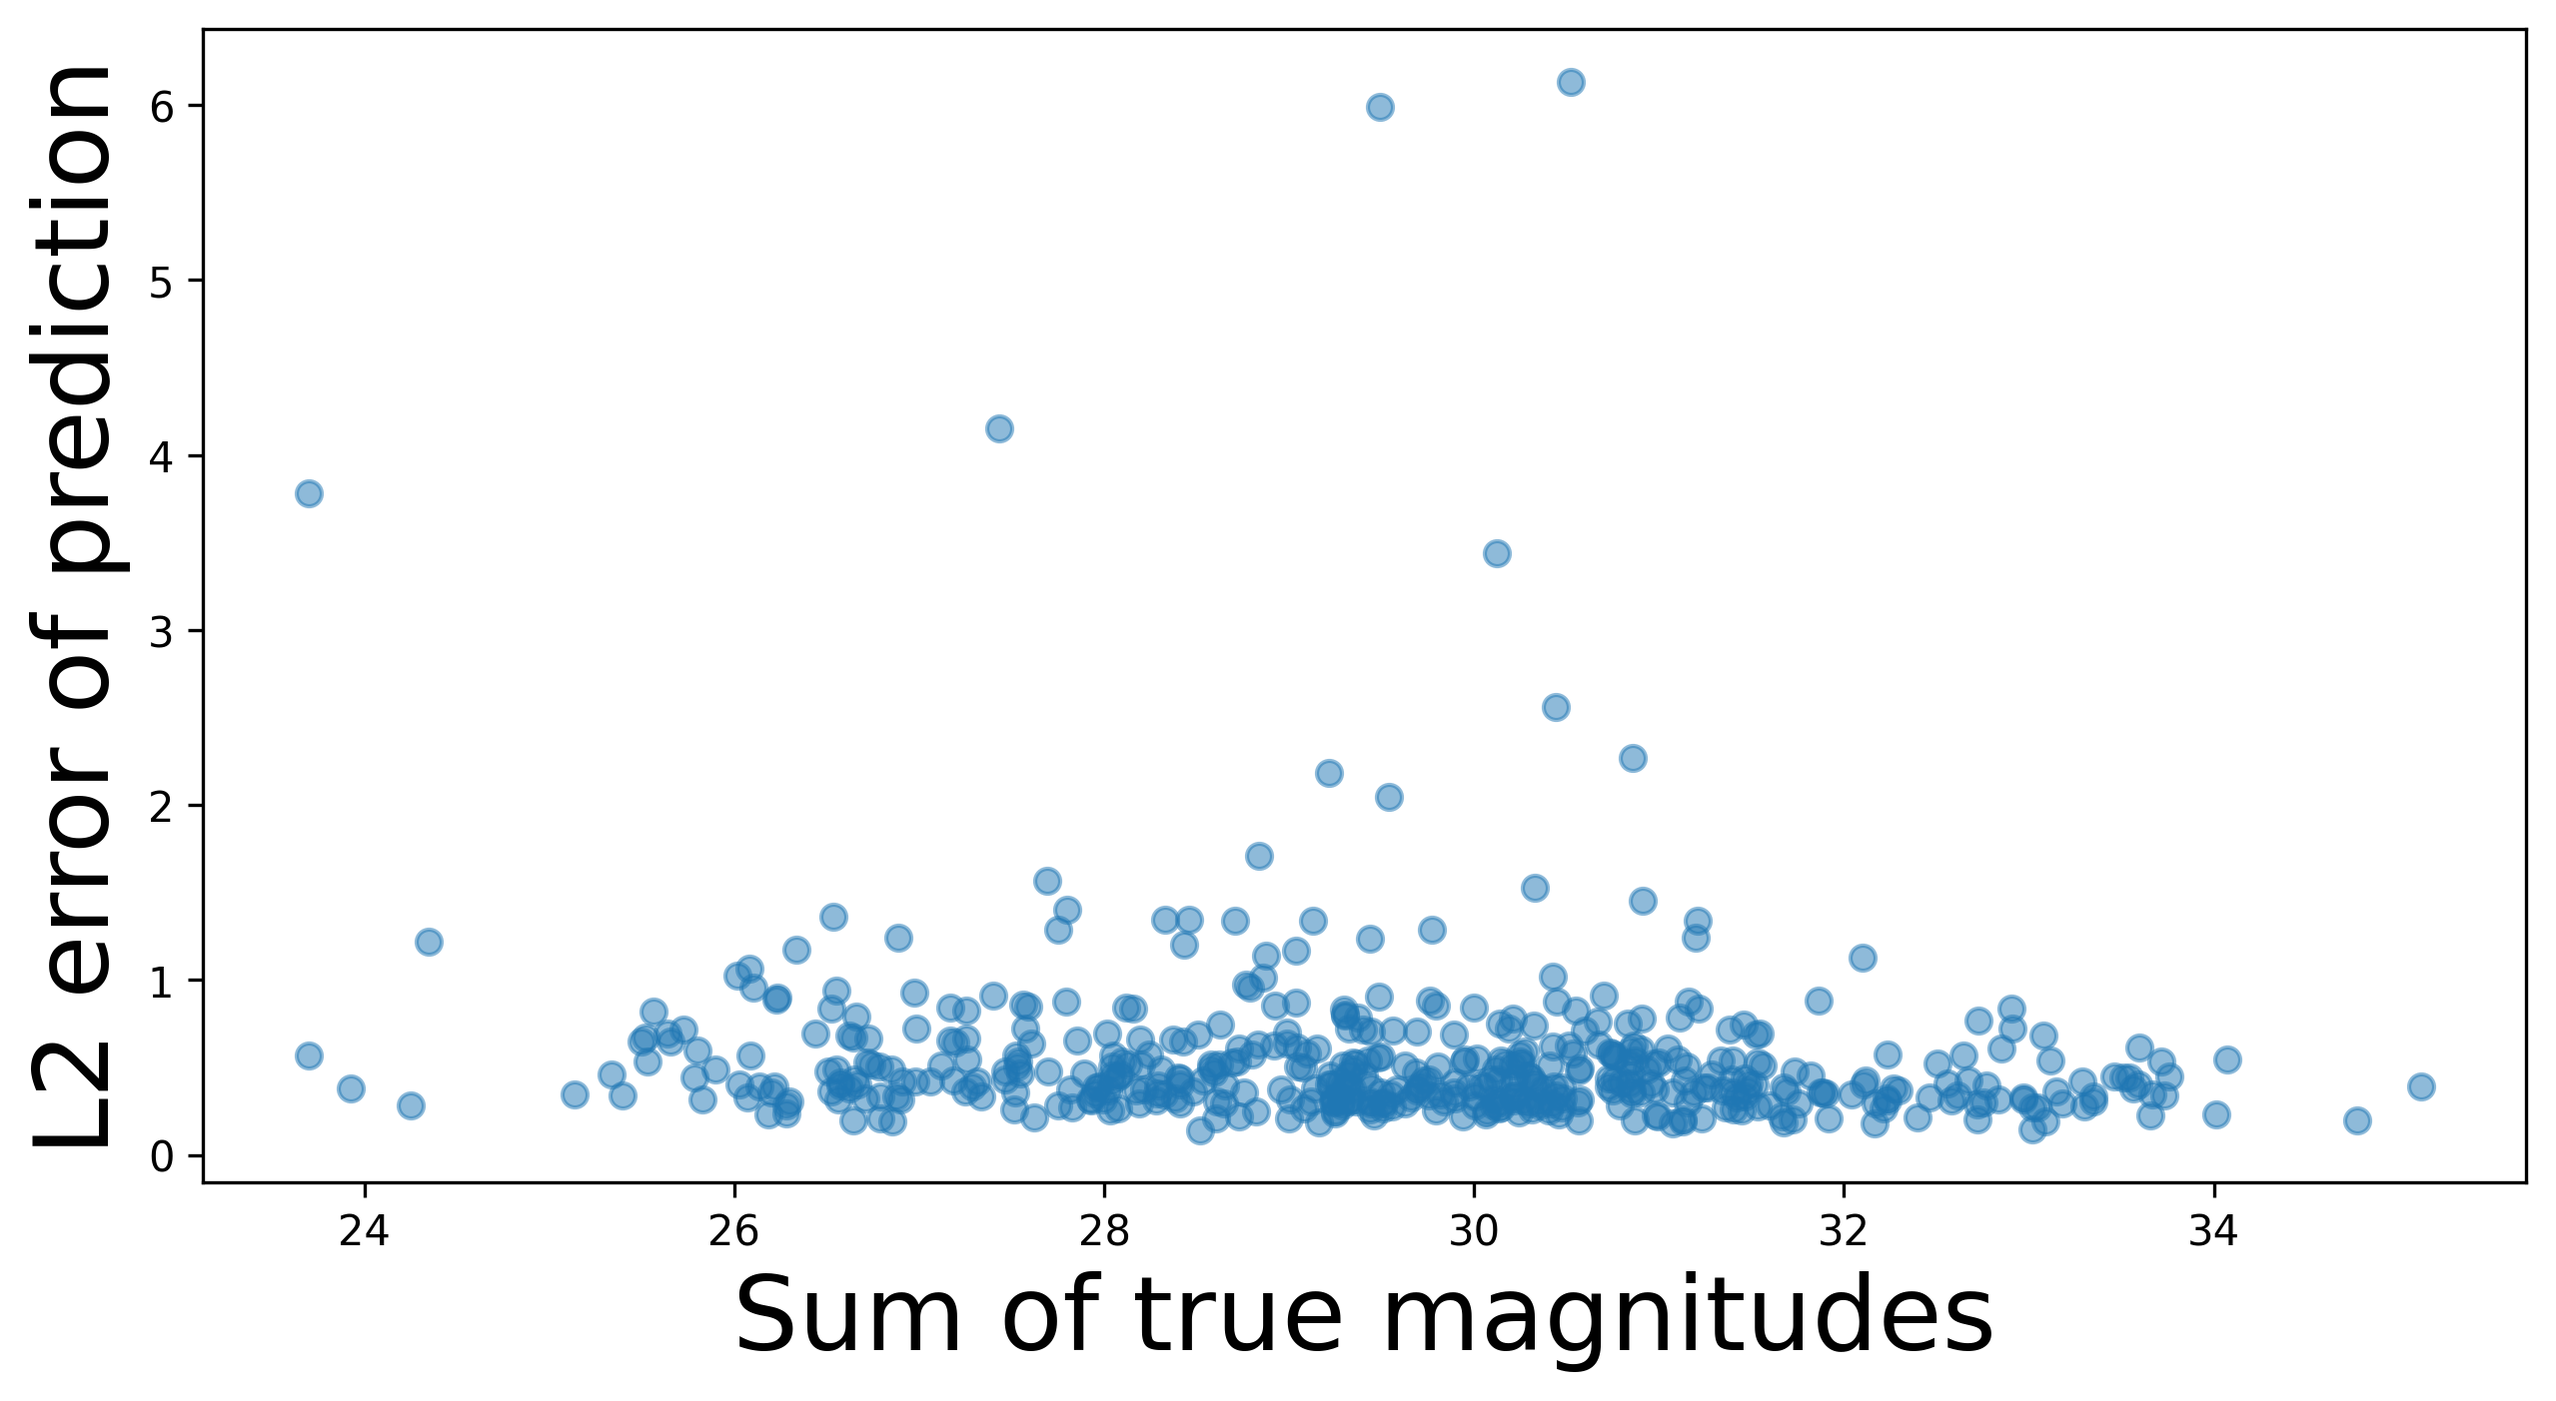
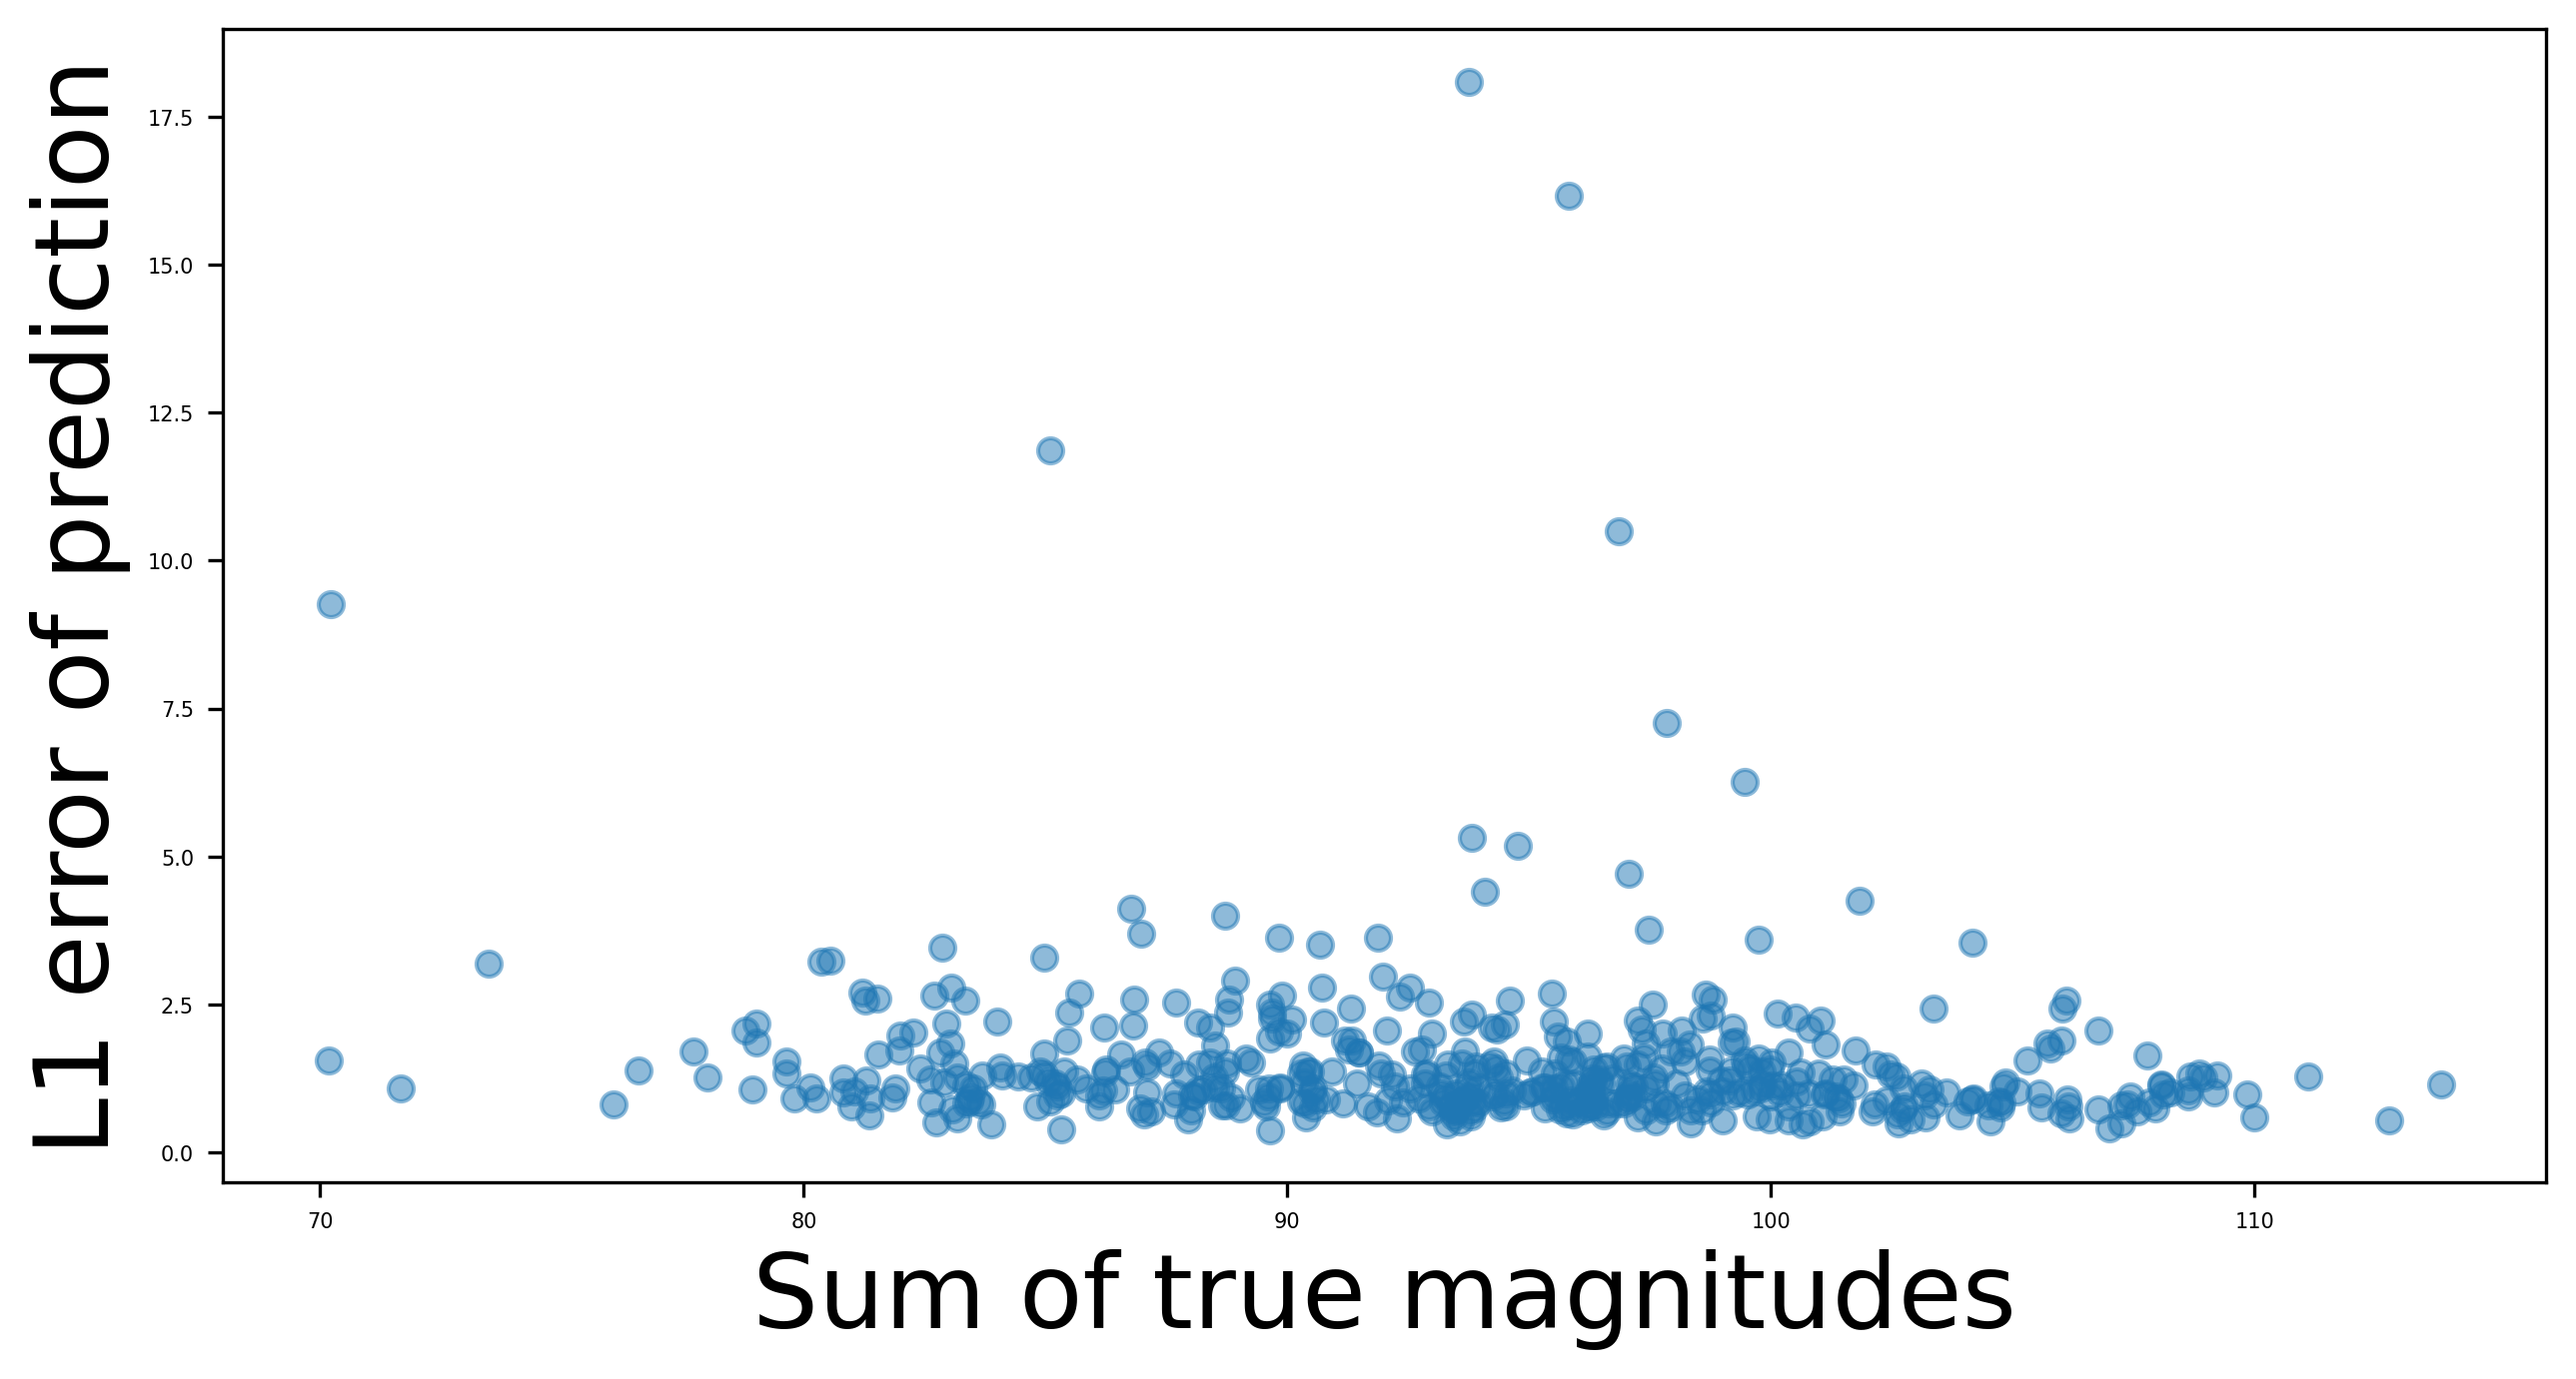
Changed L2 to L1 error and sizes of ticks

diff --git a/src/train_and_evaluate.py b/src/train_and_evaluate.py
@@ -10,7 +10,6 @@ import time
 import datetime
 from sklearn.metrics import confusion_matrix, r2_score, mean_absolute_error, mean_squared_error, accuracy_score, f1_score, precision_recall_fscore_support
 import seaborn as sns
-from seaborn import heatmap
 import json
 from matplotlib.pyplot import cm
 from matplotlib.lines import Line2D
@@ -479,7 +478,7 @@ def plot_error_boxplot(outputs, labels, elements_to_keep, dims_to_keep='all', fi
     ax = sns.boxplot(data=residuals_all)
     fig.text(0.52, 0.03, xlabel, ha='center', size=25)
     fig.text(0.05, 0.5, ylabel, va='center', rotation='vertical', size=25)
-    ax.set_xticklabels(elements_to_keep, size=25)
+    ax.set_xticklabels(elements_to_keep, size=10)
     ax.tick_params(axis='y', labelsize=5)
 
     if path_to_save:
@@ -504,7 +503,7 @@ def plot_error_violinplot(outputs, labels, elements_to_keep, dims_to_keep='all',
     ax = sns.violinplot(data=residuals_all)
     fig.text(0.52, 0.03, xlabel, ha='center', size=25)
     fig.text(0.05, 0.5, ylabel, va='center', rotation='vertical', size=25)
-    ax.set_xticklabels(elements_to_keep, size=25)
+    ax.set_xticklabels(elements_to_keep, size=10)
     ax.tick_params(axis='y', labelsize=5)
 
     if path_to_save:
@@ -528,6 +527,7 @@ def plot_correlation_heatmaps(outputs, labels, elements_to_keep, figsize=(12, 5)
     else:
         ax = sns.heatmap(np.corrcoef(labels, rowvar=False), annot=False, cmap='rocket_r')
 
+    ax.figure.axes[-1].yaxis.label.set_size(10)
     plt.tick_params(axis='both', which='major', labelbottom = False, bottom=False, top = True, labeltop=True)
 
     ax.set_xticklabels(elements_to_keep, size=10)
@@ -539,6 +539,7 @@ def plot_correlation_heatmaps(outputs, labels, elements_to_keep, figsize=(12, 5)
     else:
         ax = sns.heatmap(np.corrcoef(outputs, rowvar=False), annot=False, cmap='rocket_r')
 
+    ax.figure.axes[-1].yaxis.label.set_size(10)
     ax.set_xticklabels(elements_to_keep, size=10)
     ax.set_yticklabels(elements_to_keep, size=10)
 
@@ -575,14 +576,15 @@ def plot_correlation_heatmaps_for_target_data(prediction, elements_to_keep, data
 
 def plot_l2_error(outputs, labels, figsize=(10, 5), path_to_save=None):
 
-    l2_error = np.linalg.norm(outputs - labels, axis=1)
+    l2_error = np.sum(np.abs(outputs - labels), axis=1)
 
-    true_norm = np.linalg.norm(labels, axis=1)
+    true_norm = np.sum(np.abs(labels), axis=1)
 
     fig = plt.figure(figsize=figsize)
     plt.scatter(true_norm, l2_error, alpha=0.5)
     plt.xlabel("Sum of true magnitudes", size=25)
-    plt.ylabel("L2 error of prediction", size=25)
+    plt.ylabel("L1 error of prediction", size=25)
+    plt.tick_params(axis='both', labelsize=5)
 
     if path_to_save:
         plt.savefig(path_to_save+'global_error_vs_magnitude.png', dpi=300, bbox_inches="tight")
@@ -674,6 +676,9 @@ def plot_prf_distribution_subplots(y_true, y_pred, figsize=(16, 5), xlabel='Scor
     axes[2].hist(f1, bins=30)
     axes[2].set_xlabel("F1", size=25)
 
+    for ax in axes:
+        ax.tick_params(axis='both', labelsize=5)
+
     fig.text(0.5, 0.9, xlabel, ha='center', size=25)
     fig.text(0.05, 0.5, ylabel, va='center', rotation='vertical', size=25)
 
@@ -724,6 +729,9 @@ def plot_freq_vs_f1(y_true, y_pred, figsize=(16, 5), xlabel='Class frequency', p
     #axes[2].hist2d(freqs, f1, bins=30)
     axes[2].scatter(freqs, f1, alpha = 0.2, s=[0.7*len(freqs)])
     axes[2].set_ylabel("F1", size=25)
+
+    for ax in axes:
+        ax.tick_params(axis='both', labelsize=5)
 
     fig.text(0.5, 0.0, xlabel, ha='center', size=25)
     #fig.colorbar(label="Number of classes")
@@ -807,7 +815,8 @@ def plot_confusion_matrix(true_labels, closest_labels, normalization_in_conf_mat
     conf_mat = confusion_matrix(true_labels, closest_labels, 
                                 normalize=normalization_in_conf_mat)
 
-    heatmap(conf_mat, cmap=sns.cm.rocket_r, xticklabels=False, yticklabels=False)
+    ax=sns.heatmap(conf_mat, cmap=sns.cm.rocket_r, xticklabels=False, yticklabels=False)
+    ax.figure.axes[-1].yaxis.label.set_size(10)
     plt.ylabel('True class', size=25)
     plt.xlabel("Prediction's closest class", size=25)
     plt.rcParams['figure.figsize'] = figsize
